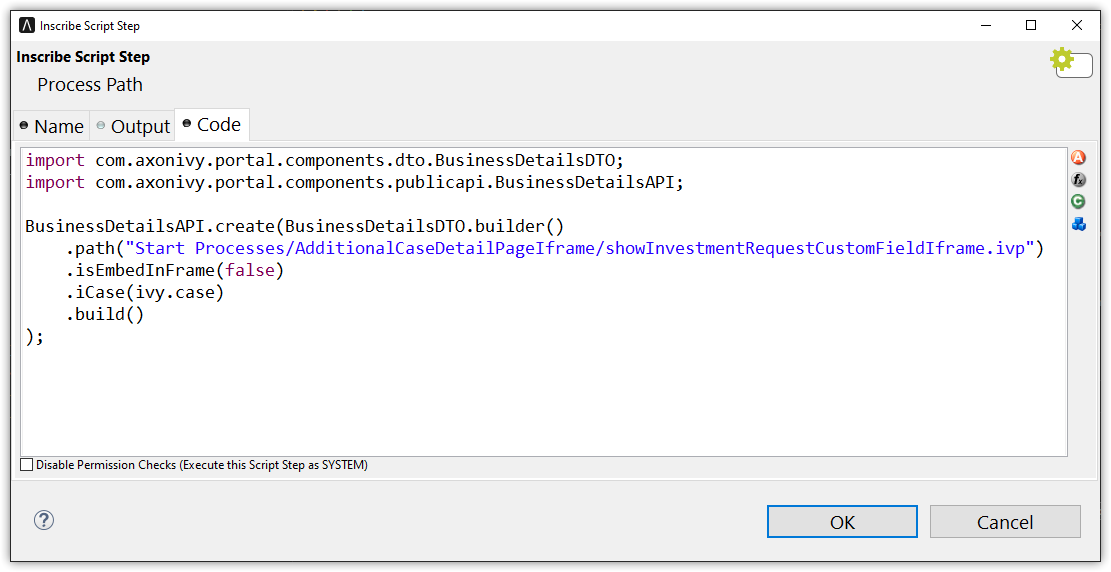
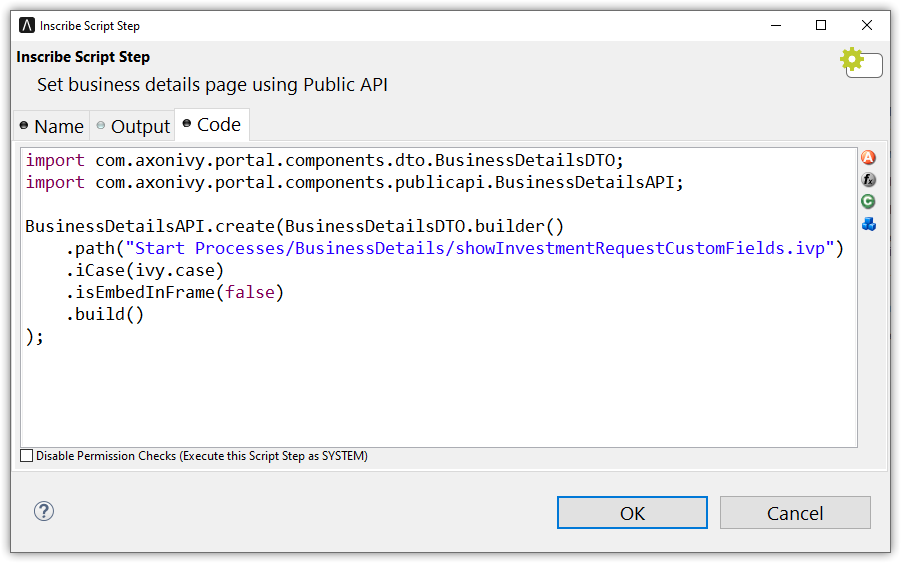
IVYPORTAL-15004 - Update image

Changed region(s): [[0.0, 0.0, 0.9945, 0.9964]]

diff --git a/Documentation/portal-guide/source/portal-developer-guide/customization/business-details-page.rst b/Documentation/portal-guide/source/portal-developer-guide/customization/business-details-page.rst
@@ -30,7 +30,7 @@ How to
 
       |set-business-details-page-callable-process|
 
-   * Use public API ``ch.ivy.addon.portalkit.publicapi.BusinessDetailsAPI.create(String)`` or ``ch.ivy.addon.portalkit.publicapi.BusinessDetailsAPI.create(BusinessDetailsDTO)``. See the Public API for more detail.
+   * Use public API ``ch.ivy.addon.portalkit.publicapi.BusinessDetailsAPI.create(String)`` or ``ch.ivy.addon.portalkit.publicapi.BusinessDetailsAPI.create(BusinessDetailsDTO)``. See the Public API section for more detail.
 
       |customize-business-details-with-public-api|
 
@@ -51,12 +51,12 @@ Customization
 
    |customization-business-details-page-iframe|
 
--  By using Public API, you can control business detail page will start inside IFrame or not, set ``.isEmbedInFrame(Boolean)`` value to 
+-  By using Public API, you can control business detail page will start inside IFrame or not, set ``BusinessDetailsDTO.builder().isEmbedInFrame(Boolean)`` value to 
    
    	- ``true``: start inside IFrame (default value)
    	- ``false``: not start inside IFrame
 
--  You can also customize ``ICase`` value, by default the API will get ``ICase`` from ``Ivy.wfCase()``. Modify it by ``.iCase(ICase)``
+-  You can also customize ``ICase`` value, by default the API will get ``ICase`` from ``Ivy.wfCase()``. Modify it by ``BusinessDetailsDTO.builder().iCase(ICase)``
 
    |start-business-details-page-iframe|
 
